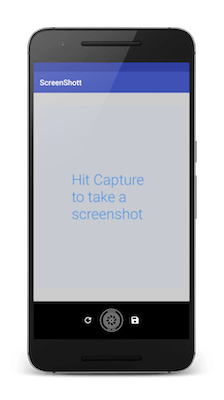
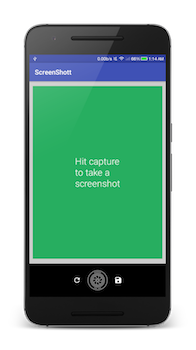
[*] updated readme with new screenshots

diff --git a/README.md b/README.md
@@ -13,7 +13,7 @@
 
 Take a screenshot of your view layout , programmatically!
 
-![sc1](/img/sc1.png)
+![sc1](/img/sc1.png)  ![sc2](/img/sc2.png)
 
 # Including in your project
 ScreenShott is available in the Jcenter, so getting it as simple as adding it as a dependency
